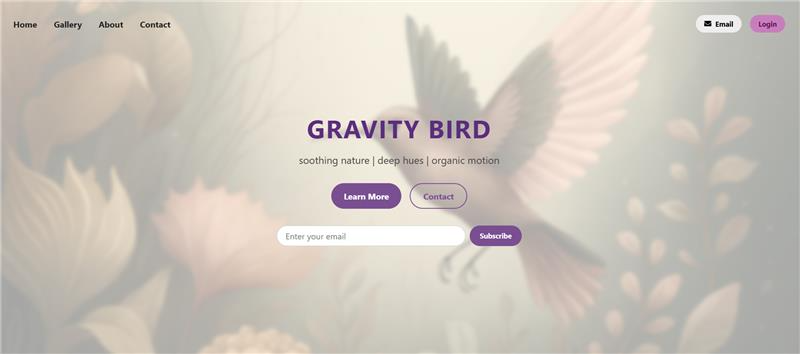
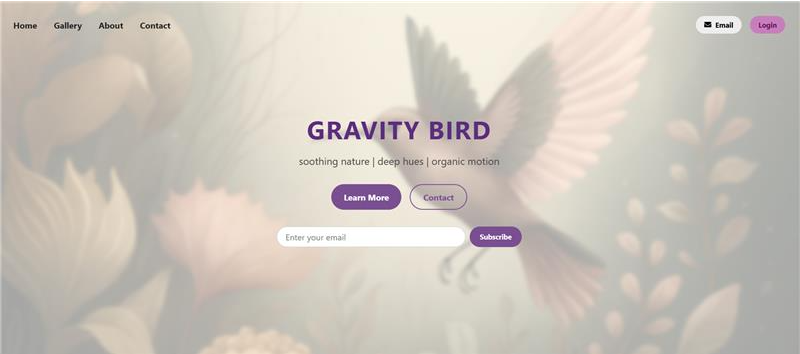
update all buttons

diff --git a/css/main.css b/css/main.css
@@ -1,48 +1,49 @@
-/* General Reset*/
-*{
-
-    margin: 0;
-    padding: 0;
-    box-sizing: border-box;
-    font-family: 'Segoe UI', Tahoma, Geneva, Verdana, sans-serif;
-}
-
 body{
+    display: flex;
+    flex-direction: column;
+    gap: 50px;
+    margin: 0;
+    width: 100vw;
+    height: 100vh;
     background: url('/img/background.png');
-    height: 1000px;
+    background-color: rgba(255, 255, 255, 0.615);
     background-size: cover;
+    backdrop-filter: blur(5px);
+
 }
 
 .container{
-    backdrop-filter: blur(3px);
-    background-color: rgba(255, 255, 255, 0.615);
-    height: 100%;
-    width: 100%;
+    display: flex;
+    flex-direction: column;
+    width: 800px;
+    justify-content: space-between;
+    font-family:'Segoe UI', Tahoma, Geneva, Verdana, sans-serif; 
     padding: 20px;
+    margin: 0%;
+    width: 97vw;
 }
 
 .navbar{
-    margin: 0;
-    display: flex;
+    display:flex;
+    flex-direction: row;
     justify-content: space-between;
-    margin-bottom: 2rem;
     align-items: center;
 }
 
-.navbar ul{
-    list-style: none;
+
+.navbar .link{
     display: flex;
-    gap: 45px;
+    justify-content: flex-start;
+    gap: 25px;
+    text-decoration: none;
 }
 
-
-.navbar a{
+.navbar .link a{
     text-decoration: none;
     color: rgb(27, 9, 19);
     font-size: 20px;
     transition: 0.4s;
-    font-weight: bold;
-
+    font-weight: bold; 
 }
 
 .navbar a:hover{
@@ -53,6 +54,7 @@ body{
     display: flex;
     gap: 20px;
     align-items: center;
+    justify-content: flex-end;
 }
 
 .action-button{
@@ -72,11 +74,77 @@ body{
     color: rgb(96, 49, 113);
     }
 
+.main-column{
+    margin-top: 170px;
+    display: flex;
+    flex-direction: column;
+    gap: 0px;
+    justify-content: center;
+    align-items: center;
+}
+.title{
+font-size:60px;
+color: #562B6C;
+margin: 0%;
+}
 
+.description{
+font-size: 22px;
+}
 
+.btn-grp{
+    display: flex;
+    flex-direction: row;
+    gap: 20px;
+    justify-content: center;
+    align-items: center;
+     ;
+    
+}
 
+.btn1 {
+    padding: 15px 25px;
+    border-radius: 25px;
+    background-color:#562B6C ;
+    color: white;
+    text-decoration: none;
+    border: 2px solid #562B6C;
+    
+}
+.btn2{
+    padding: 15px 25px;
+    border-radius: 25px;
+    background-color: transparent;
+    color: #562B6C;
+    text-decoration: none;
+    border: 2px solid #562B6C;
+}
 
+.btn-grp2{
+    margin-top: 40px;
+    display: flex;
+    flex-direction: row;
+    gap: 20px;
+    justify-content: center;
+    align-items: center;
+}
 
+.btn3 {
+    padding: 10px 20px;
+    border-radius: 25px;
+    background-color:white;
+    padding-right: 250px;
+   
+    text-decoration: none;
+}
+
+.btn4{
+    padding: 10px 20px;
+    border-radius: 25px;
+    background-color:#562B6C;
+    color: white;
+    text-decoration: none;
+}
 
 
 

diff --git a/index.html b/index.html
@@ -8,15 +8,14 @@
     <link rel="stylesheet" href="https://cdnjs.cloudflare.com/ajax/libs/font-awesome/6.0.0-beta3/css/all.min.css" />
 </head>
 <body>
- <div class="container">
-  <header>
+  <header class="container">
     <nav class="navbar">
-       <ul>
+       <div class="link">
         <a href="#">Home</a>
         <a href="#">Gallery</a>
         <a href="#">About</a>
         <a href="#">Contact</a>
-       </ul>
+       </div>
        <div class="action">
         <button class="action-button email" >
         <i class = "fas fa-envelope"></i> email
@@ -24,24 +23,22 @@
         <button class="action-button login">Login</button>
        </div >
     </nav>
-  
   </header>
   
-  <main>
+  <main class="container">
     <div class="main-column">
-      <h1 class="main-title">GRAVITY BIRD</h1>
+      <h1 class="title">GRAVITY BIRD</h1>
       <p class="description">soothing nature | deep hues| organic motion</p>
     </div>
     <nav class="btn-grp">
-       <a class="btn" href="#">Learn More</a>
-       <a class="btn" href="#">Contact</a>
+       <a class="btn1" href="#">Learn More</a>
+       <a class="btn2" href="#">Contact</a>
     </nav> 
-    <nav class="btn-grup2">
-       <a class="btn2" href="#">Enter your email:</a>
-       <a class="btn2" href="#">Subscribe</a>
+    <nav class="btn-grp2">
+       <a class="btn3" href="#">Enter your email:</a>
+       <a class="btn4" href="#">Subscribe</a>
     </nav> 
-  </main> 
- </div>     
+  </main>    
 </body>
 </html>
 
